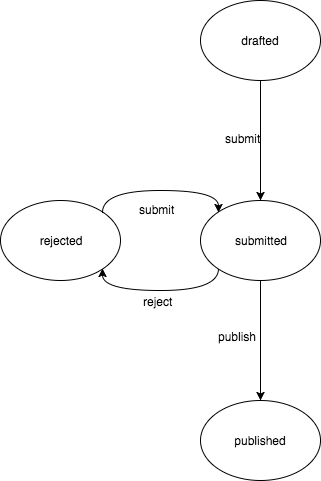
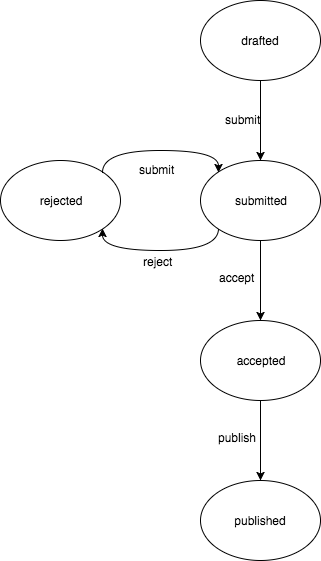
Adds an 'accepted' state

diff --git a/onegov/notice/tests/test_collections.py b/onegov/notice/tests/test_collections.py
@@ -12,6 +12,7 @@ def test_notice_collection(session):
         category='important'
     )
     notice_1.submit()
+    notice_1.accept()
     notice_1.publish()
 
     commit()
@@ -30,6 +31,7 @@ def test_notice_collection(session):
     assert notices.query().count() == 2
     assert notices.for_state('drafted').query().count() == 0
     assert notices.for_state('submitted').query().count() == 1
+    assert notices.for_state('accepted').query().count() == 0
     assert notices.for_state('published').query().count() == 1
 
     assert notices.by_name('important-announcement')
@@ -44,6 +46,7 @@ def test_notice_collection(session):
     assert notices.query().count() == 0
     assert notices.for_state('drafted').query().count() == 0
     assert notices.for_state('submitted').query().count() == 0
+    assert notices.for_state('accepted').query().count() == 0
     assert notices.for_state('published').query().count() == 0
 
 
@@ -54,23 +57,39 @@ def test_notice_collection_pagination(session):
     assert notices.pages_count == 0
     assert notices.batch == []
 
-    for year in range(2008, 2010):
+    for year in range(2008, 2013):
         for month in range(1, 13):
             notice = notices.add(
                 title='Notice {0}-{1}'.format(year, month),
                 text='text'
             )
-            notice.submit()
-            if year > 2008:
+            if 2009 <= year:
+                notice.submit()
+            if 2010 <= year <= 2011:
+                notice.accept()
+            if 2011 <= year <= 2011:
                 notice.publish()
-    assert notices.query().count() == 24
+            if 2012 <= year:
+                notice.reject()
 
-    assert notices.for_state('drafted').subset_count == 0
+    assert notices.query().count() == 60
+
+    drafted = notices.for_state('drafted')
+    assert drafted.subset_count == 12
+    assert len(drafted.next.batch) == 12 - drafted.batch_size
 
     submitted = notices.for_state('submitted')
     assert submitted.subset_count == 12
     assert len(submitted.next.batch) == 12 - submitted.batch_size
 
+    accepted = notices.for_state('accepted')
+    assert accepted.subset_count == 12
+    assert len(accepted.next.batch) == 12 - accepted.batch_size
+
     published = notices.for_state('published')
     assert published.subset_count == 12
     assert len(published.next.batch) == 12 - published.batch_size
+
+    rejected = notices.for_state('rejected')
+    assert rejected.subset_count == 12
+    assert len(rejected.next.batch) == 12 - rejected.batch_size

diff --git a/onegov/notice/tests/test_models.py b/onegov/notice/tests/test_models.py
@@ -14,6 +14,7 @@ def test_create_notice(session):
     session.add(notice)
 
     notice.submit()
+    notice.accept()
     notice.publish()
 
     commit()
@@ -53,30 +54,55 @@ def test_transitions():
     assert notice.state == 'drafted'
 
     with raises(AssertionError):
-        notice.publish()
-    with raises(AssertionError):
         notice.reject()
+    with raises(AssertionError):
+        notice.accept()
+    with raises(AssertionError):
+        notice.publish()
     notice.submit()
     assert notice.state == 'submitted'
 
     # Submitted
     notice = OfficialNotice(state='submitted')
-    notice.publish()
-    assert notice.state == 'published'
+    with raises(AssertionError):
+        notice.submit()
+    with raises(AssertionError):
+        notice.publish()
+    notice.accept()
+    assert notice.state == 'accepted'
 
     notice = OfficialNotice(state='submitted')
     notice.reject()
     assert notice.state == 'rejected'
+
+    # Accepted
+    notice = OfficialNotice(state='accepted')
+    with raises(AssertionError):
+        notice.submit()
+    with raises(AssertionError):
+        notice.reject()
+    with raises(AssertionError):
+        notice.accept()
+    notice.publish()
+    assert notice.state == 'published'
 
     # Published
     notice = OfficialNotice(state='published')
     with raises(AssertionError):
         notice.submit()
     with raises(AssertionError):
+        notice.reject()
+    with raises(AssertionError):
+        notice.accept()
+    with raises(AssertionError):
         notice.publish()
 
     # Rejected
     notice = OfficialNotice(state='rejected')
+    with raises(AssertionError):
+        notice.reject()
+    with raises(AssertionError):
+        notice.accept()
     with raises(AssertionError):
         notice.publish()
     notice.submit()

diff --git a/onegov/notice/upgrade.py b/onegov/notice/upgrade.py
@@ -1,4 +1,40 @@
-""" Contains upgrade tasks that are executed when the application is being
-upgraded on the server. See :class:`onegov.core.upgrade.upgrade_task`.
+from onegov.core.upgrade import upgrade_task
+from sqlalchemy import Enum
 
-"""
+
+@upgrade_task('Adds accepted state')
+def add_accepted_state(context):
+    # Create a temporary definition and use it
+    tmp_type = Enum(
+        'drafted', 'submitted', 'published', 'rejected', 'accepted',
+        name='_official_notice_state'
+    )
+    tmp_type.create(context.operations.get_bind(), checkfirst=False)
+    context.operations.execute(
+        'ALTER TABLE official_notices ALTER COLUMN state '
+        'TYPE _official_notice_state '
+        'USING state::text::_official_notice_state'
+    )
+
+    # Drop the old definition
+    old_type = Enum(
+        'drafted', 'submitted', 'published', 'rejected',
+        name='official_notice_state'
+    )
+    old_type.drop(context.operations.get_bind(), checkfirst=False)
+
+    # Create the new definition and use it
+    new_type = Enum(
+        'drafted', 'submitted', 'published', 'rejected', 'accepted',
+        name='official_notice_state'
+    )
+    new_type.create(context.operations.get_bind(), checkfirst=False)
+
+    context.operations.execute(
+        'ALTER TABLE official_notices ALTER COLUMN state '
+        'TYPE official_notice_state '
+        'USING state::text::official_notice_state'
+    )
+
+    # Drop the temporary defintion
+    tmp_type.drop(context.operations.get_bind(), checkfirst=False)

diff --git a/onegov/notice/models.py b/onegov/notice/models.py
@@ -37,7 +37,7 @@ class OfficialNotice(Base, ContentMixin, TimestampMixin):
     #: The state of the notice.
     state = Column(
         Enum(
-            'drafted', 'submitted', 'published', 'rejected',
+            'drafted', 'submitted', 'published', 'rejected', 'accepted',
             name='official_notice_state'
         ),
         nullable=False,
@@ -76,14 +76,20 @@ class OfficialNotice(Base, ContentMixin, TimestampMixin):
         assert self.state == 'drafted' or self.state == 'rejected'
         self.state = 'submitted'
 
-    def publish(self):
-        """ Publish a submitted notice. """
-
-        assert self.state == 'submitted'
-        self.state = 'published'
-
     def reject(self):
         """ Reject a submitted notice. """
 
         assert self.state == 'submitted'
         self.state = 'rejected'
+
+    def accept(self):
+        """ Accept a submitted notice. """
+
+        assert self.state == 'submitted'
+        self.state = 'accepted'
+
+    def publish(self):
+        """ Publish an accepted notice. """
+
+        assert self.state == 'accepted'
+        self.state = 'published'

diff --git a/HISTORY.rst b/HISTORY.rst
@@ -1,6 +1,9 @@
 Changelog
 ---------
 
+- Adds an 'accepted' state.
+  [msom]
+
 0.0.1 (2017-07-14)
 ~~~~~~~~~~~~~~~~~~
 
